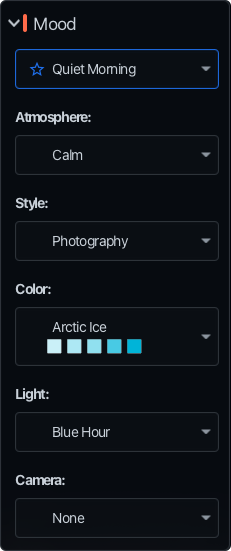
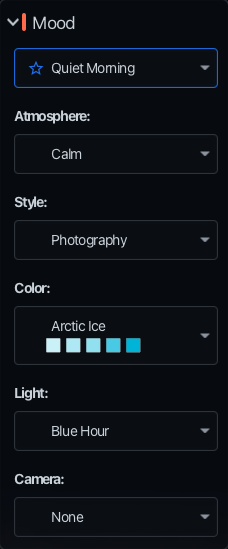
fix(website): Mood panels without their border, rounded like the images

diff --git a/website/index.html b/website/index.html
@@ -12,7 +12,7 @@
     <link rel="icon" type="image/png" href="assets/img/favicon-64.png">
     <link rel="apple-touch-icon" href="assets/img/apple-touch-icon.png">
     <link rel="preload" href="assets/fonts/space-grotesk-700.woff2" as="font" type="font/woff2" crossorigin>
-    <link rel="stylesheet" href="assets/css/site.css?v=20261114g">
+    <link rel="stylesheet" href="assets/css/site.css?v=20261114h">
 </head>
 <body>
 
@@ -58,7 +58,7 @@
         <figure class="card overview-figure" style="margin-inline: 0">
             <svg viewBox="0 0 1248 600" role="img" aria-labelledby="overview-desc">
                 <desc id="overview-desc" data-i18n="overview.alt">The MoodFrame main window with the library, the images, the prompt, and the groups Mood, Frame and Generation</desc>
-                <image href="assets/img/app-screenshot.png?v=20261114g" x="194" y="30" width="860" height="540"/>
+                <image href="assets/img/app-screenshot.png?v=20261114h" x="194" y="30" width="860" height="540"/>
                 <g stroke-width="1" fill="none">
                     <line x1="182" y1="112" x2="199" y2="112" stroke="rgb(255 255 255 / 45%)"/>
                     <line x1="182" y1="184" x2="372" y2="184" stroke="rgb(255 255 255 / 45%)"/>
@@ -100,7 +100,7 @@
                     <text x="1074" y="591" class="callout-text" data-i18n="feature.brainstorm.2">with an AI assistant</text>
                 </g>
             </svg>
-            <img class="shot" src="assets/img/app-screenshot.png?v=20261114g" alt="" width="1426" height="895" loading="lazy">
+            <img class="shot" src="assets/img/app-screenshot.png?v=20261114h" alt="" width="1426" height="895" loading="lazy">
             <ul class="overview-list">
                 <li><span><b data-i18n="feature.library">Library</b> · <span data-i18n="feature.library.full">Chats, or all images of a mood or frame</span></span></li>
                 <li><span><b data-i18n="feature.images">Images</b> · <span data-i18n="feature.images.full">view in detail, use as reference, or delete</span></span></li>
@@ -128,7 +128,7 @@
             </div>
             <div class="mood-body" role="tabpanel">
                 <img src="assets/img/mood-vintage-film.jpg" alt="" width="1600" height="1067" data-mood-image>
-                <img class="panel" src="assets/img/panel-vintage-film.png?v=20261114g" alt="" width="231" height="551" data-mood-panel>
+                <img class="panel" src="assets/img/panel-vintage-film.png?v=20261114h" alt="" width="228" height="549" data-mood-panel>
             </div>
         </div>
     </section>
@@ -246,6 +246,6 @@
     </div>
 </footer>
 
-<script src="assets/js/site.js?v=20261114g" defer></script>
+<script src="assets/js/site.js?v=20261114h" defer></script>
 </body>
 </html>

diff --git a/website/assets/css/site.css b/website/assets/css/site.css
@@ -153,12 +153,12 @@ button { font: inherit; color: inherit; }
 .tabs [role="tab"] .hint { margin-left: 8px; font-size: 11px; color: var(--logo-yellow); }
 #mood .tabs { --tab-color: rgb(255 107 74 / 28%); }
 #install .tabs { --tab-color: rgb(245 184 61 / 25%); }
-/*  the columns keep the 3:2 image and the 231:551 panel at the same height  */
+/*  the columns keep the 3:2 image and the 228:549 panel at the same height  */
 .mood-body {
-    display: grid; grid-template-columns: minmax(0, 1500fr) minmax(0, 419fr); gap: 32px; margin-top: 28px;
+    display: grid; grid-template-columns: minmax(0, 1500fr) minmax(0, 415fr); gap: 32px; margin-top: 28px;
 }
 .mood-body img { width: 100%; aspect-ratio: 3 / 2; object-fit: cover; border-radius: 10px; }
-.mood-body img.panel { aspect-ratio: 231 / 551; height: auto; border-radius: 6px; }
+.mood-body img.panel { aspect-ratio: 228 / 549; height: auto; }
 .frame-text ul { margin: 0; padding: 18px 0 0; list-style: none; font-size: 14px; border-top: 1px solid rgb(255 255 255 / 12%); }
 .frame-text li { margin-bottom: 8px; }
 .frame-text li::before { content: "✦ "; color: var(--fg-faint); }
@@ -250,7 +250,7 @@ footer .links { display: flex; gap: 20px; margin-left: auto; }
     .overview-list li::before { content: ""; width: 10px; height: 10px; margin-top: 6px; border-radius: 50%; background: var(--dot, #fff); }
     .overview-list b { color: var(--fg-strong); font-weight: 600; }
     .mood-body, .frame-body, .providers { grid-template-columns: minmax(0, 1fr); }
-    .mood-body img.panel { width: min(100%, 231px); justify-self: center; }
+    .mood-body img.panel { width: min(100%, 228px); justify-self: center; }
     .tabs { display: flex; width: 100%; overflow-x: auto; }
     .tabs [role="tab"] { flex: 1 0 auto; padding-inline: 12px; white-space: nowrap; }
     .terminal pre { font-size: 13px; }

diff --git a/website/assets/js/site.js b/website/assets/js/site.js
@@ -180,9 +180,9 @@ function applyMood () {
     const mood = MOODS[state.mood]
     for (const tab of document.querySelectorAll("[data-mood]"))
         tab.setAttribute("aria-selected", String(tab.dataset.mood === state.mood))
-    document.querySelector("[data-mood-image]").src = `assets/img/${mood.image}?v=20261114g`
+    document.querySelector("[data-mood-image]").src = `assets/img/${mood.image}?v=20261114h`
     const panel = document.querySelector("[data-mood-panel]")
-    panel.src = `assets/img/${mood.panel}?v=20261114g`
+    panel.src = `assets/img/${mood.panel}?v=20261114h`
     panel.alt = `${t("mood.panel")} ${t(`mood.${state.mood}.name`)}`
 }
 

diff --git a/website/imprint.html b/website/imprint.html
@@ -7,7 +7,7 @@
     <meta name="robots" content="noindex">
     <meta name="theme-color" content="#0d1a1e">
     <link rel="icon" type="image/png" href="assets/img/favicon-64.png">
-    <link rel="stylesheet" href="assets/css/site.css?v=20261114g">
+    <link rel="stylesheet" href="assets/css/site.css?v=20261114h">
 </head>
 <body>
 
@@ -108,6 +108,6 @@
     </div>
 </footer>
 
-<script src="assets/js/site.js?v=20261114g" defer></script>
+<script src="assets/js/site.js?v=20261114h" defer></script>
 </body>
 </html>

diff --git a/website/privacy.html b/website/privacy.html
@@ -7,7 +7,7 @@
     <meta name="robots" content="noindex">
     <meta name="theme-color" content="#0d1a1e">
     <link rel="icon" type="image/png" href="assets/img/favicon-64.png">
-    <link rel="stylesheet" href="assets/css/site.css?v=20261114g">
+    <link rel="stylesheet" href="assets/css/site.css?v=20261114h">
 </head>
 <body>
 
@@ -167,6 +167,6 @@
     </div>
 </footer>
 
-<script src="assets/js/site.js?v=20261114g" defer></script>
+<script src="assets/js/site.js?v=20261114h" defer></script>
 </body>
 </html>
